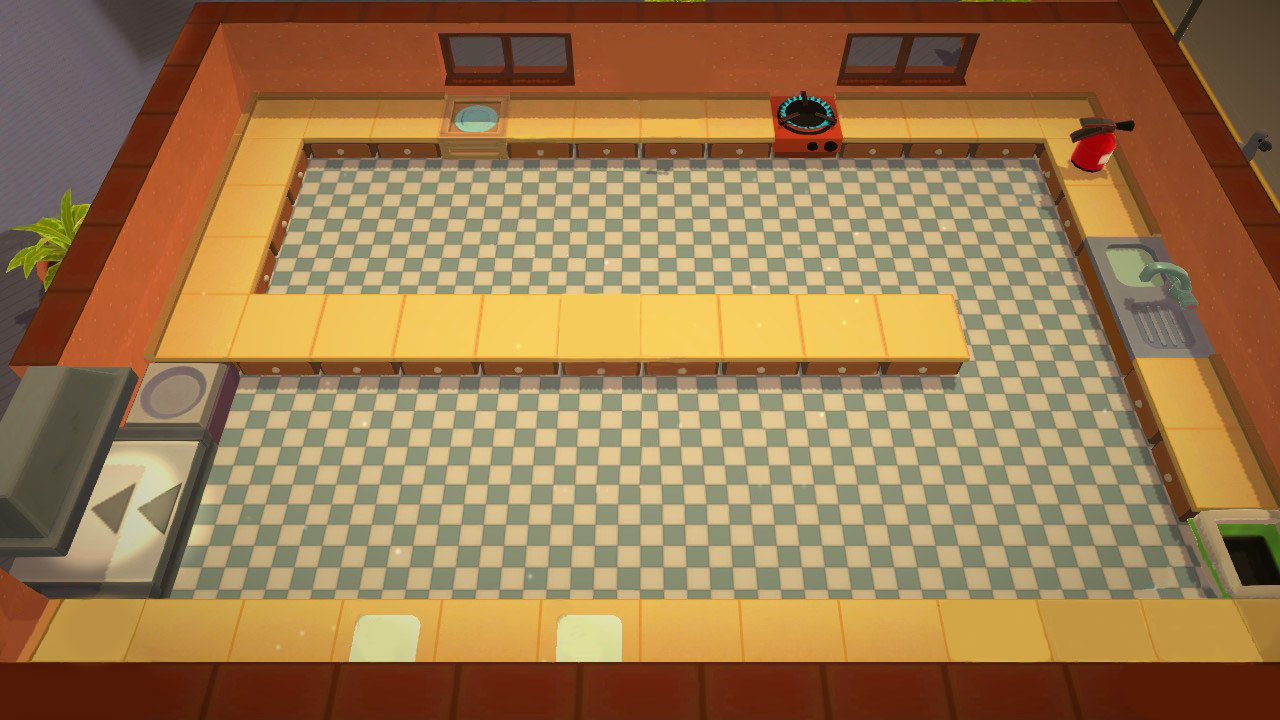
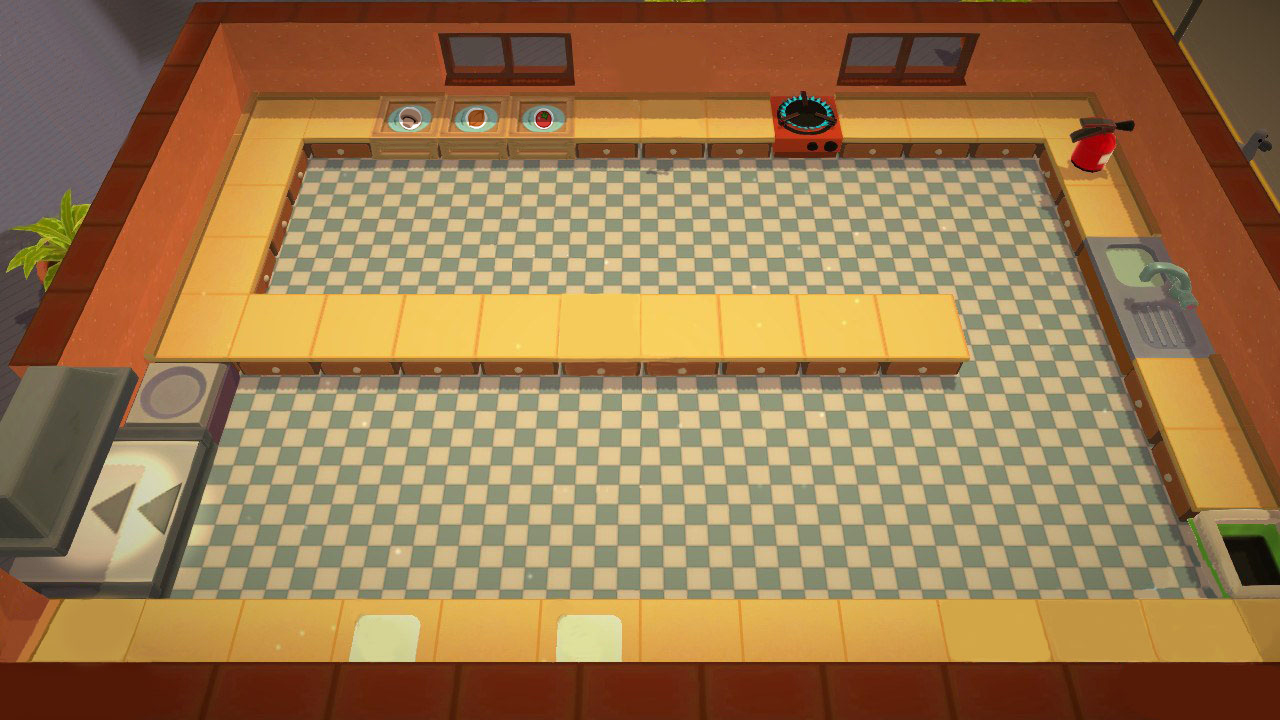
update

Changed region(s): [[0.2812, 0.1222, 0.4688, 0.2444]]

diff --git a/public/State/MainGame.js b/public/State/MainGame.js
@@ -34,7 +34,7 @@ class MainGame extends Phaser.State {
     this.game.load.spritesheet('tomato', './assets/tomato.png', 32, 32);
 
     //Pot
-    this.game.load.image('pot','./assets/pot.png',82,105);
+    this.game.load.image('pot', './assets/pot.png', 82, 105);
 
     // Dish Requirement
     this.game.load.image('MashroomSoupRequirement', './assets/Mashroom-Dish-Requirement.png');
@@ -85,7 +85,7 @@ class MainGame extends Phaser.State {
     collisionLayer.resizeWorld();
 
     //Add Pot
-    this.pot = game.add.sprite(763,33,'pot');
+    this.potImg = game.add.sprite(763, 33, 'pot');
 
     // Get Player Info
     let playerInfos = await SocketConnector.getPlayersInfo();
@@ -176,14 +176,19 @@ class MainGame extends Phaser.State {
     // Get Tilemap Info
     let cut1 = this.map.objects.meta.find(o => o.name == 'cut1');
     let cut2 = this.map.objects.meta.find(o => o.name == 'cut2');
-    let food = this.map.objects.meta.find(o => o.name == 'food');
+    let mushroom = this.map.objects.meta.find(o => o.name == 'mushroom');
+    let tomato = this.map.objects.meta.find(o => o.name == 'tomato');
+    let onion = this.map.objects.meta.find(o => o.name == 'onion');
     let pot = this.map.objects.meta.find(o => o.name == 'pot');
     let wash = this.map.objects.meta.find(o => o.name == 'wash');
     let garbage = this.map.objects.meta.find(o => o.name == 'garbage');
     let dirty = this.map.objects.meta.find(o => o.name == 'dirty');
+
     this.cut1Rect = new Phaser.Rectangle(cut1.x, cut1.y, cut1.width, cut1.height);
     this.cut2Rect = new Phaser.Rectangle(cut2.x, cut2.y, cut2.width, cut2.height);
-    this.foodRect = new Phaser.Rectangle(food.x, food.y, food.width, food.height);
+    this.mushroomRect = new Phaser.Rectangle(mushroom.x, mushroom.y, mushroom.width, mushroom.height);
+    this.tomatoRect = new Phaser.Rectangle(tomato.x, tomato.y, tomato.width, tomato.height);
+    this.onionRect = new Phaser.Rectangle(onion.x, onion.y, onion.width, onion.height);
     this.potRect = new Phaser.Rectangle(pot.x, pot.y, pot.width, pot.height);
     this.washRect = new Phaser.Rectangle(wash.x, wash.y, wash.width, wash.height);
     this.garbageRect = new Phaser.Rectangle(garbage.x, garbage.y, garbage.width, garbage.height);
@@ -196,6 +201,12 @@ class MainGame extends Phaser.State {
     });
 
     map.createLayer('foreground');
+
+    //Add onion
+    this.onionCut1 = new Food(game, 'onion-1',365, 610, 1.5);
+    this.onionCut1.sprite.visible=false;
+    this.onionCut2 = new Food(game, 'onion-1',567, 610, 1.5);
+    this.onionCut2.sprite.visible=false;
 
     //Add Timing
     this.timing = game.add.sprite(1050, 600, 'time');
@@ -323,7 +334,7 @@ class MainGame extends Phaser.State {
           if (this.currentCu2ProgressBar != null) {
             this.currentCu2ProgressBar.timer.resume();
           } else {
-            this.currentCu2ProgressBar = new ProgressBar(this.game, 540, WindowHeight - 60, 100, 15, 50, 100, () => { this.currentCu2ProgressBar = null }, this);
+            this.currentCu2ProgressBar = new ProgressBar(this.game, 540, WindowHeight - 60, 100, 15, 50, 100, () => { this.currentCu2ProgressBar = null,this.onionCut2.sprite.frame = 1; }, this);
           }
         }
         if (Phaser.Rectangle.contains(this.washRect, target.sprite.x, target.sprite.y)) {
@@ -345,13 +356,35 @@ class MainGame extends Phaser.State {
         }*/
         if (Phaser.Rectangle.contains(this.potRect, target.sprite.x, target.sprite.y)) {
           target.isHolding = true;
-          this.pot.visible = false;
+          this.potImg.visible = false;
           target.isPot = true;
         }
-        if (Phaser.Rectangle.contains(this.foodRect, target.sprite.x, target.sprite.y)) {
+        if (Phaser.Rectangle.contains(this.mushroomRect, target.sprite.x, target.sprite.y)) {
           target.isHolding = true;
+          target.isMushroom = true;
         }
-
+        if (Phaser.Rectangle.contains(this.tomatoRect, target.sprite.x, target.sprite.y)) {
+          target.isHolding = true;
+          target.isTomato = true;
+        }
+        if (Phaser.Rectangle.contains(this.onionRect, target.sprite.x, target.sprite.y)) {
+          target.isHolding = true;
+          target.isOnion = true;
+        }
+        if (Phaser.Rectangle.contains(this.cut1Rect, target.sprite.x, target.sprite.y)) {
+          if (this.onionCut1.sprite.visible) {
+            target.isHolding = true;
+            target.isOnion = true;
+            this.onionCut1.sprite.visible = false;
+          }
+        }
+        if (Phaser.Rectangle.contains(this.cut2Rect, target.sprite.x, target.sprite.y)) {
+          if (this.onionCut2.sprite.visible) {
+            target.isHolding = true;
+            target.isOnion = true;
+            this.onionCut2.sprite.visible = false;
+          }
+        }
       }
     }
     else if (target.isHolding) {
@@ -371,9 +404,14 @@ class MainGame extends Phaser.State {
         } else if (controlMes === 'press Space') {
           if (Phaser.Rectangle.contains(this.cut1Rect, target.sprite.x, target.sprite.y)) {
             target.isHolding = !target.isHolding;
+            this.onionCut1.sprite.frame = 0;
+            this.onionCut1.sprite.visible = true;
+            target.isOnion = false;
           }
           if (Phaser.Rectangle.contains(this.cut2Rect, target.sprite.x, target.sprite.y)) {
             target.isHolding = !target.isHolding;
+            this.onionCut2.sprite.visible = true;
+            target.isOnion = false;
           }
 
         }
@@ -413,8 +451,7 @@ class MainGame extends Phaser.State {
           target.sprite.animations.stop(null, true);
         } else if (controlMes === 'stop Y') {
           target.sprite.animations.stop(null, true);
-        } else if (controlMes === 'press Space')
-         {
+        } else if (controlMes === 'press Space') {
           if (Phaser.Rectangle.contains(this.cut1Rect, target.sprite.x, target.sprite.y)) {
             target.isHolding = !target.isHolding;
           }
@@ -437,13 +474,13 @@ class MainGame extends Phaser.State {
         } else if (controlMes === 'stop Y') {
           target.sprite.animations.stop(null, true);
         } else if (controlMes === 'press Space') {
-          
+
           if (Phaser.Rectangle.contains(this.potRect, target.sprite.x, target.sprite.y)) {
             target.isHolding = false;
-            this.pot.visible = true;
+            this.potImg.visible = true;
             target.isPot = false;
           }
-  
+
         }
       }
       else if (target.isPlate) {

diff --git a/public/index.js b/public/index.js
@@ -14,8 +14,8 @@ firebase.initializeApp({
 var game = new Phaser.Game(WindowWidth, WindowHeight, Phaser.AUTO);
 
 // Add Socket to Game
-//game.socket = io('http://localhost:80/Hall');
-game.socket = io('http://192.168.50.181:80/Hall');
+game.socket = io('http://localhost:80/Hall');
+//game.socket = io('http://192.168.50.181:80/Hall');
 
 // Add Game State
 game.state.add('Menu', new Menu());

diff --git a/public/Food/index.js b/public/Food/index.js
@@ -3,9 +3,10 @@
 class Food {
   hasProcessed = false;
 
-  constructor(game, foodAsset, initX, initY){
+  constructor(game, foodAsset, initX, initY, scale){
     this.game = game;
     this.sprite = this.game.add.sprite(initX, initY, foodAsset);
-    this.sprite.anchor.setTo(0.5, 0.5);
+    //this.sprite.anchor.setTo(0.5, 0.5);
+    this.sprite.scale.setTo(scale, scale);
   }
 }
